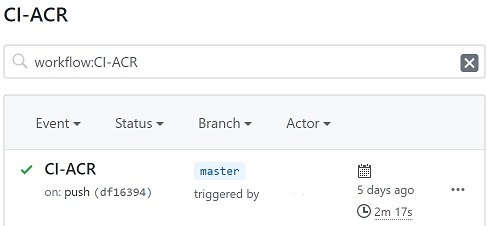
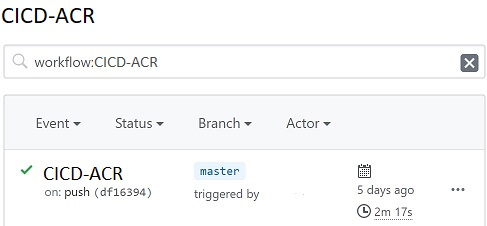
fixing naming

Changed region(s): [[0.0, 0.031, 0.2156, 0.1239], [0.0924, 0.7124, 0.2772, 0.8053], [0.1848, 0.2478, 0.3388, 0.3097]]

diff --git a/docs/CI-CD/GithubActions.md b/docs/CI-CD/GithubActions.md
@@ -41,7 +41,7 @@ In the browser, navigate to your forked repo page in Github to set up credential
     - Name: REGISTRY_PASSWORD
     - Value: {copy output from `echo $He_SP_PWD_CICD` command}
 
-![alt text](../images/githubactions-cicd.jpg "Add Github Secret")
+![alt text](../images/githubactions-secret.jpg "Add Github Secret")
 
 ## Add Github Workflow File (.yml) 
 
@@ -55,6 +55,6 @@ In the browser, navigate to your forked repo page in Github to set up credential
 ## Verify Successful Workflow
 
 1. After merging changes into master, navigate to the Actions tab in your repo.
-2. You should see an instance of the newly added workflow (default name is CI-ACR) running or succesfully completed.
+2. You should see an instance of the newly added workflow (default name is CICD-ACR) running or succesfully completed.
 
 ![alt text](../images/githubactions-run.jpg "Successful Workflow Run")
